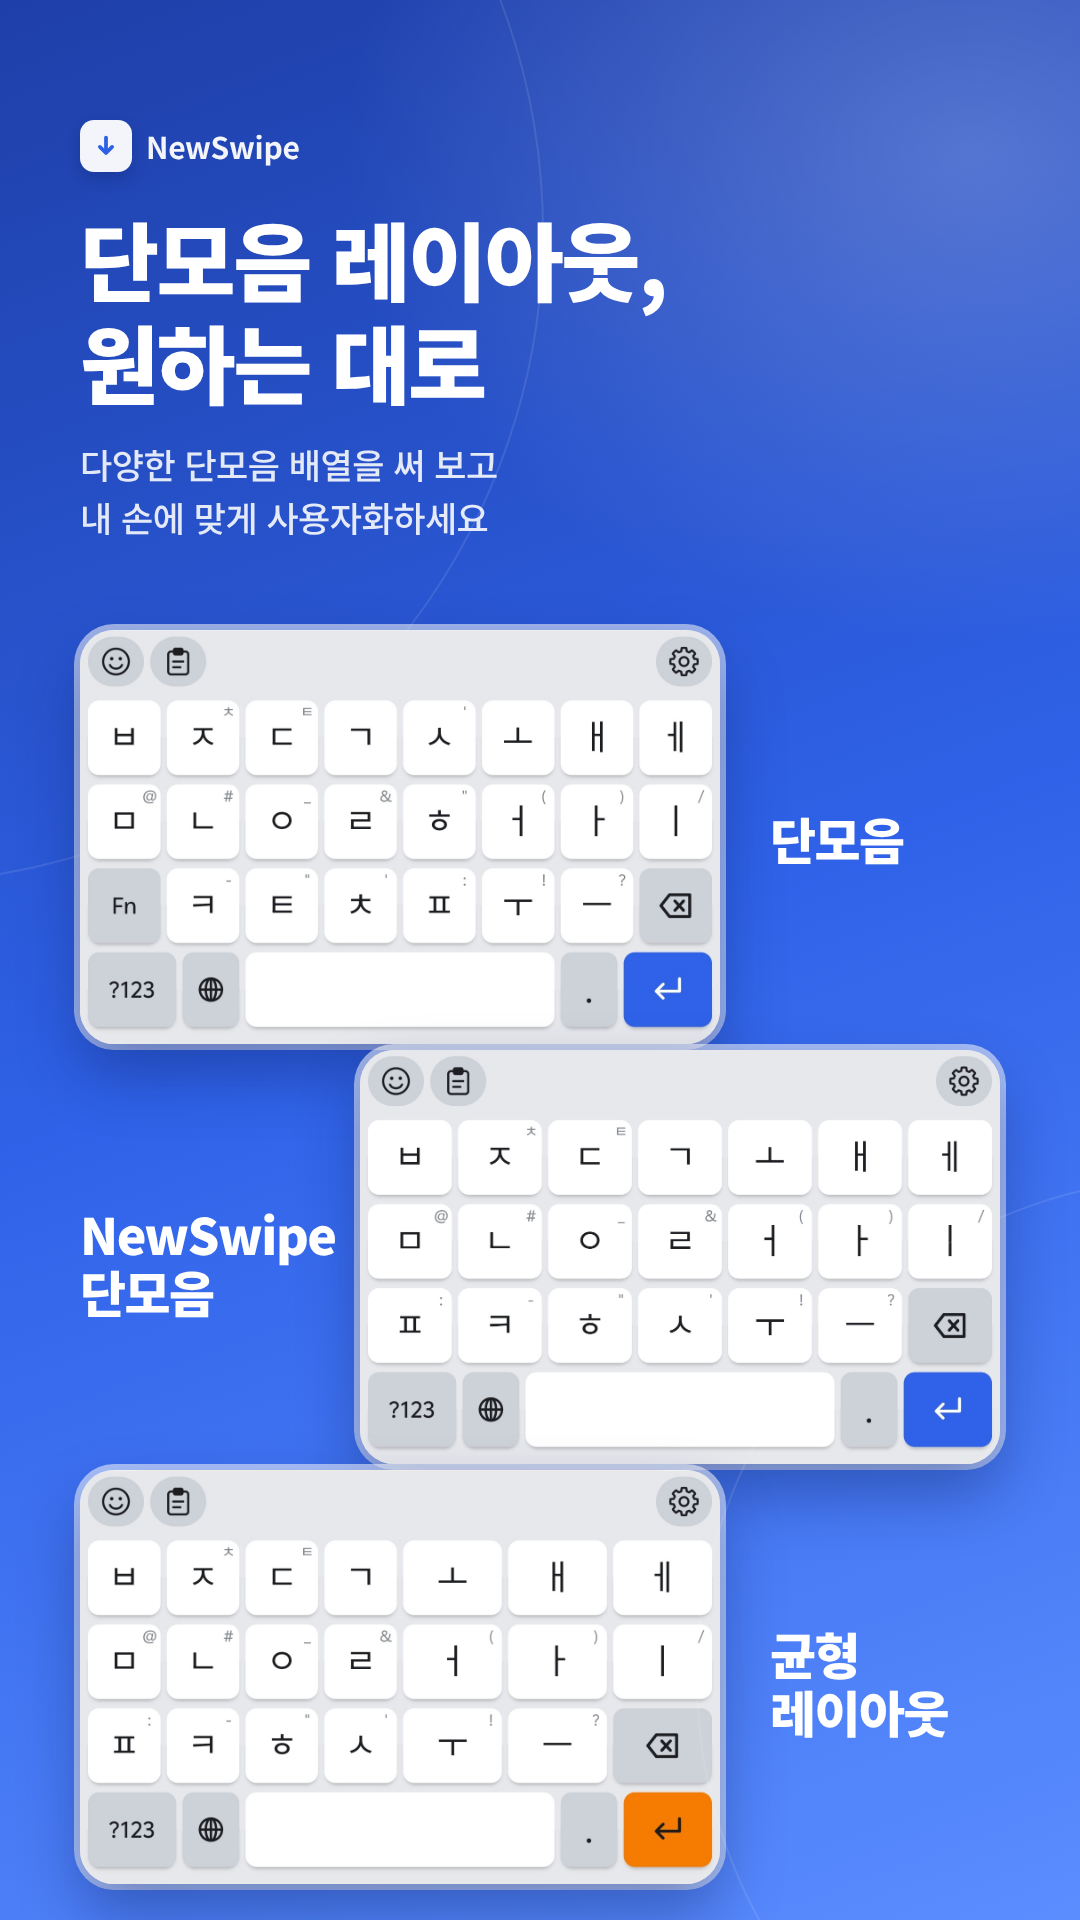
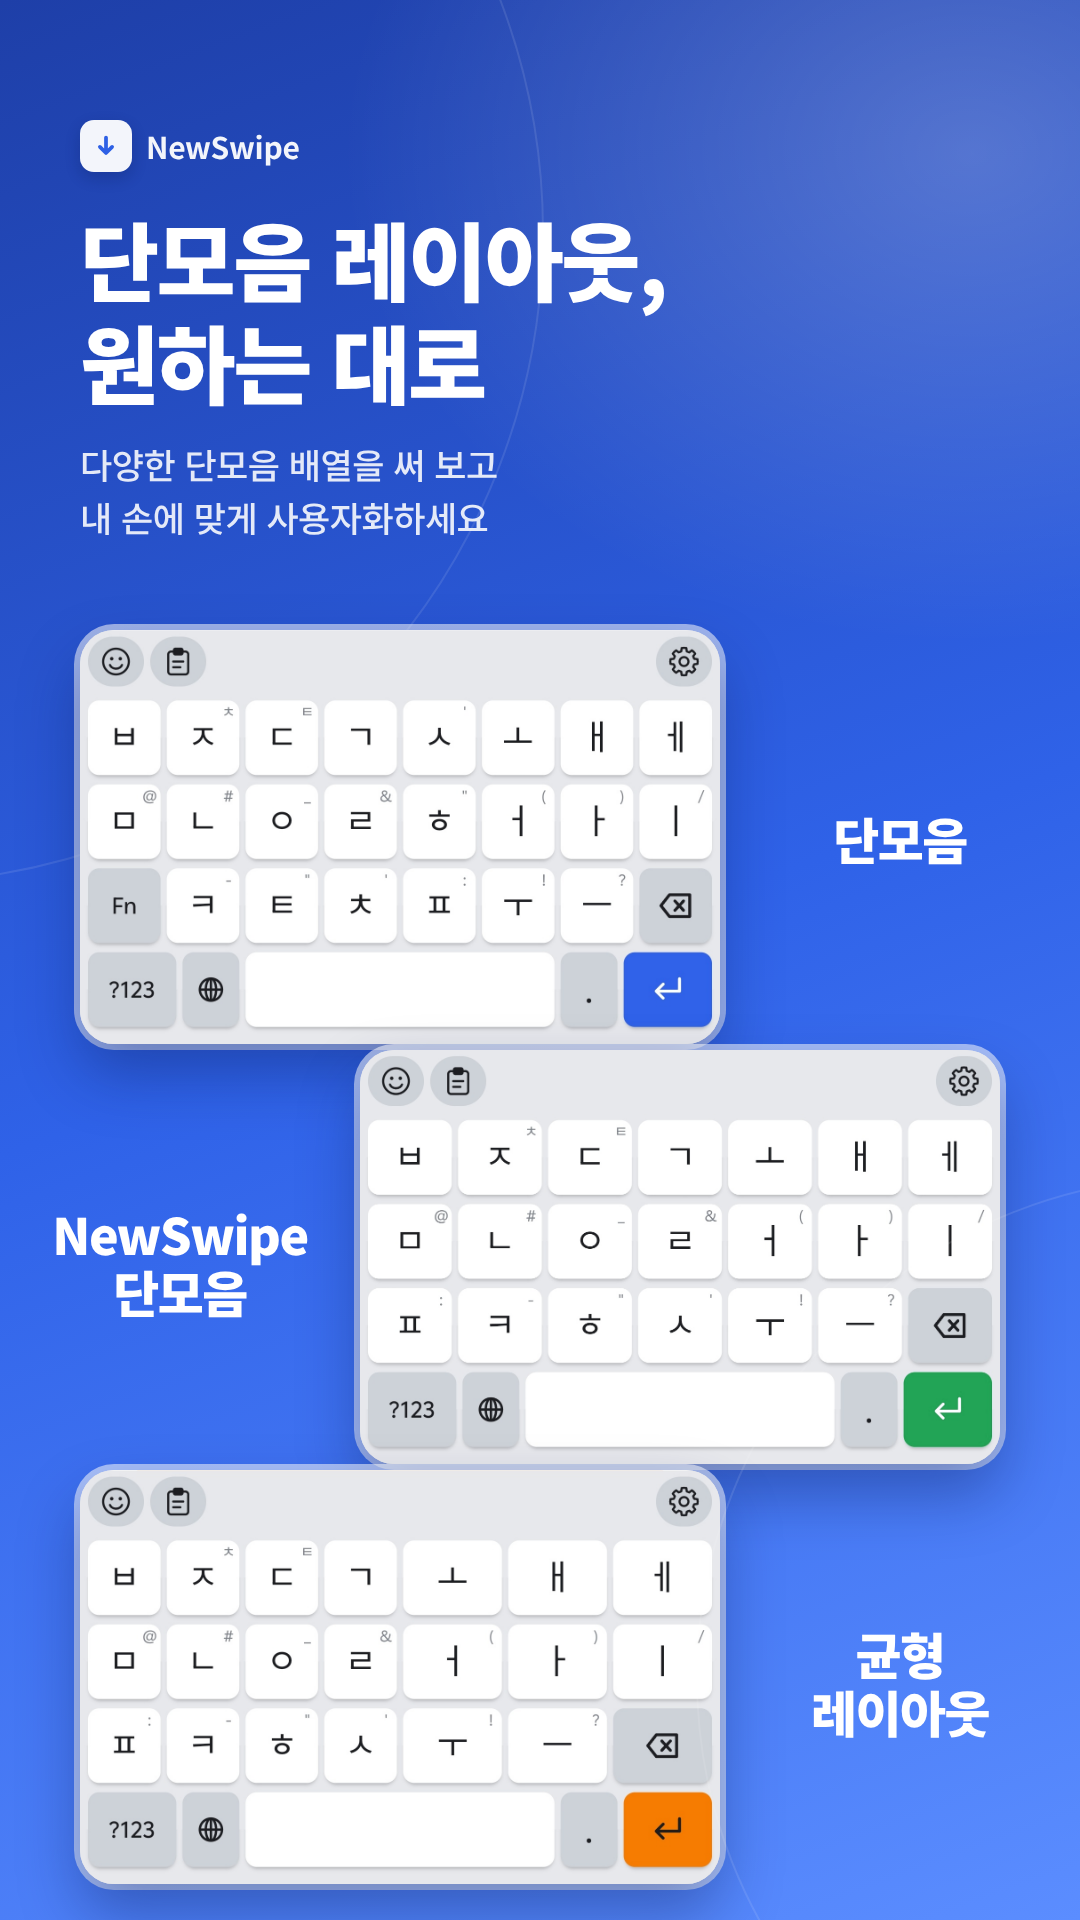
Center layout labels and make the NewSwipe layout's enter key green
Claude-Session: https://claude.ai/code/session_01AwdWyN99B5N53CxBWipQNM

diff --git a/docs/play-store/screenshots/src/shots.html b/docs/play-store/screenshots/src/shots.html
@@ -67,13 +67,13 @@
     <p>다양한 단모음 배열을 써 보고<br>내 손에 맞게 사용자화하세요</p>
   </div>
   <div class="card" style="left:80px; top:630px; width:640px;"><img src="img/l1.jpg"></div>
-  <div class="label" style="left:770px; top:810px;"><b>단모음</b></div>
+  <div class="label" style="left:720px; width:360px; top:810px; text-align:center;"><b>단모음</b></div>
 
-  <div class="card" style="left:360px; top:1050px; width:640px;"><img src="img/l2.jpg"></div>
-  <div class="label" style="left:80px; top:1205px; text-align:left;"><b>NewSwipe<br>단모음</b></div>
+  <div class="card" style="left:360px; top:1050px; width:640px;"><img src="img/l2-green.png"></div>
+  <div class="label" style="left:0; width:360px; top:1205px; text-align:center;"><b>NewSwipe<br>단모음</b></div>
 
   <div class="card" style="left:80px; top:1470px; width:640px;"><img src="img/l3.jpg"></div>
-  <div class="label" style="left:770px; top:1625px;"><b>균형<br>레이아웃</b></div>
+  <div class="label" style="left:720px; width:360px; top:1625px; text-align:center;"><b>균형<br>레이아웃</b></div>
 </section>
 
 <!-- ============ 2. 분리 키보드 ============ -->
